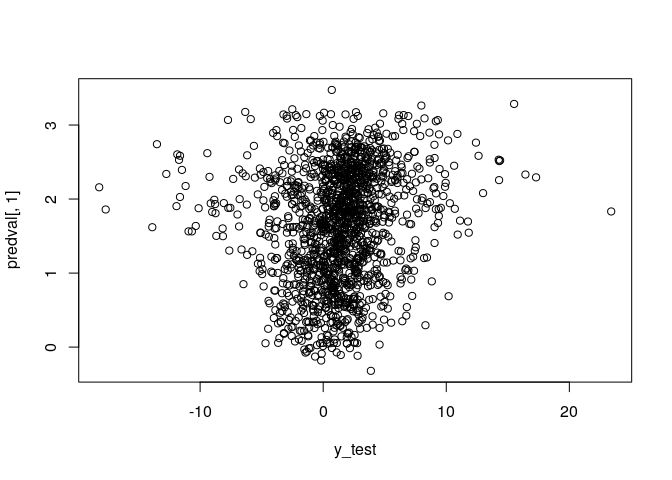
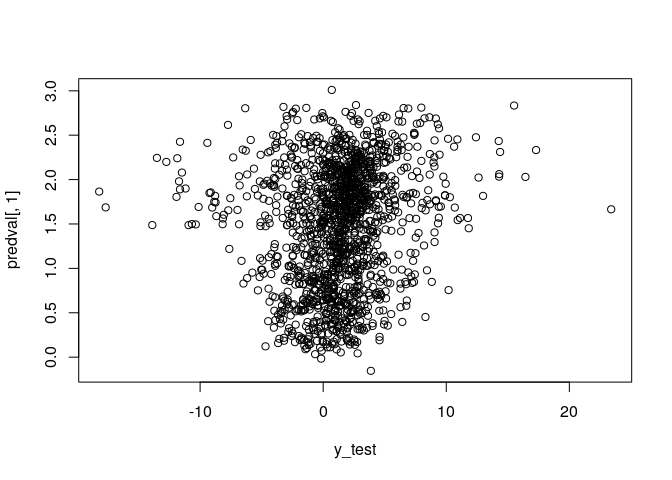
allow for weight history return, example in Readme

diff --git a/README.md b/README.md
@@ -238,7 +238,8 @@ mod <- deepregression(
   df = 10 # use no penalization for spline
 )
 # fit model
-mod %>% fit(epochs=100, verbose = FALSE, view_metrics = FALSE)
+history <- mod %>% fit(epochs=100, verbose = FALSE, view_metrics = FALSE,
+                       save_weights = TRUE)
 # plot model
 par(mfrow=c(1,2))
 plot(true_mean_fun(x) ~ x)
@@ -246,6 +247,24 @@ mod %>% plot()
 ```
 
 ![](README_files/figure-markdown_github/unnamed-chunk-5-1.png)
+
+``` r
+# plot history of spline
+BX <- mod$init_params$parsed_formulae_contents[[1]][[2]]$x$X
+coef_history <- history$weighthistory[-1,]
+f_history <- sapply(1:ncol(coef_history), function(j) BX%*%coef_history[,j])
+library(ggplot2)
+library(reshape2)
+df <- melt(cbind(x=x, as.data.frame(f_history)), id.vars="x")
+df$variable = as.numeric(df$variable)
+ggplot(df, aes(x=x,y=value, colour=as.integer(variable), group=factor(variable))) + 
+  geom_line() + 
+  scale_colour_gradient(name = "epoch", 
+                        low = "blue", high = "red") + 
+  ylab("partial effect s(x)") + theme_bw()
+```
+
+![](README_files/figure-markdown_github/unnamed-chunk-5-2.png)
 
 GAMLSS
 ------
@@ -322,34 +341,34 @@ mod %>% coef()
 
     ## $loc
     ## $loc$structured_nonlinear
-    ##             [,1]
-    ##  [1,]  0.4160898
-    ##  [2,]  0.2497826
-    ##  [3,] -0.3707316
-    ##  [4,] -2.4760108
-    ##  [5,] -0.8680781
-    ##  [6,] -0.1231995
-    ##  [7,]  0.4829883
-    ##  [8,]  1.2826728
-    ##  [9,] -0.7483706
-    ## [10,]  0.6104912
-    ## [11,]  2.5033853
-    ## [12,]  0.6700827
-    ## [13,] -0.4506202
-    ## [14,]  0.1098706
-    ## [15,] -0.1718094
-    ## [16,] -0.3002699
-    ## [17,]  0.1161409
-    ## [18,] -0.3087884
-    ## [19,] -0.5354298
-    ## [20,]  0.5545416
-    ## [21,]  1.5457950
+    ##              [,1]
+    ##  [1,]  0.69970286
+    ##  [2,]  0.64283693
+    ##  [3,] -0.29696718
+    ##  [4,] -2.54977822
+    ##  [5,] -0.82622010
+    ##  [6,] -0.11046425
+    ##  [7,]  0.44725543
+    ##  [8,]  1.26909161
+    ##  [9,] -0.71604812
+    ## [10,]  0.40857410
+    ## [11,]  2.31083965
+    ## [12,]  0.61065251
+    ## [13,] -0.48482469
+    ## [14,]  0.08922095
+    ## [15,] -0.18667486
+    ## [16,] -0.31188715
+    ## [17,]  0.15640770
+    ## [18,] -0.29940379
+    ## [19,] -0.55775505
+    ## [20,]  0.61894798
+    ## [21,]  1.47842216
     ## 
     ## 
     ## $scale
     ## $scale$structured_linear
     ##          [,1]
-    ## [1,] 2.036417
+    ## [1,] 2.037757
 
 ``` r
 # plot model
@@ -459,25 +478,25 @@ mod %>% coef()
 
     ## $loc
     ## $loc$structured_nonlinear
-    ##             [,1]
-    ##  [1,]  0.4877967
-    ##  [2,]  0.3977217
-    ##  [3,] -0.1169101
-    ##  [4,] -2.4036171
-    ##  [5,] -0.8514287
-    ##  [6,] -0.2191759
-    ##  [7,]  0.4018484
-    ##  [8,]  1.1934898
-    ##  [9,] -0.4583162
-    ## [10,]  1.0344293
-    ## [11,]  1.8098911
+    ##              [,1]
+    ##  [1,]  0.26221001
+    ##  [2,]  0.68124455
+    ##  [3,] -0.07978177
+    ##  [4,] -2.49434137
+    ##  [5,] -0.82964391
+    ##  [6,] -0.14092377
+    ##  [7,]  0.39799944
+    ##  [8,]  1.22501850
+    ##  [9,] -0.48301479
+    ## [10,]  0.79562682
+    ## [11,]  1.79852343
     ## 
     ## 
     ## $scale
     ## $scale$structured_linear
-    ##           [,1]
-    ## [1,] 0.3844172
-    ## [2,] 2.0406637
+    ##          [,1]
+    ## [1,] 0.104100
+    ## [2,] 2.036957
 
 Examples for each Distribution
 ------------------------------
